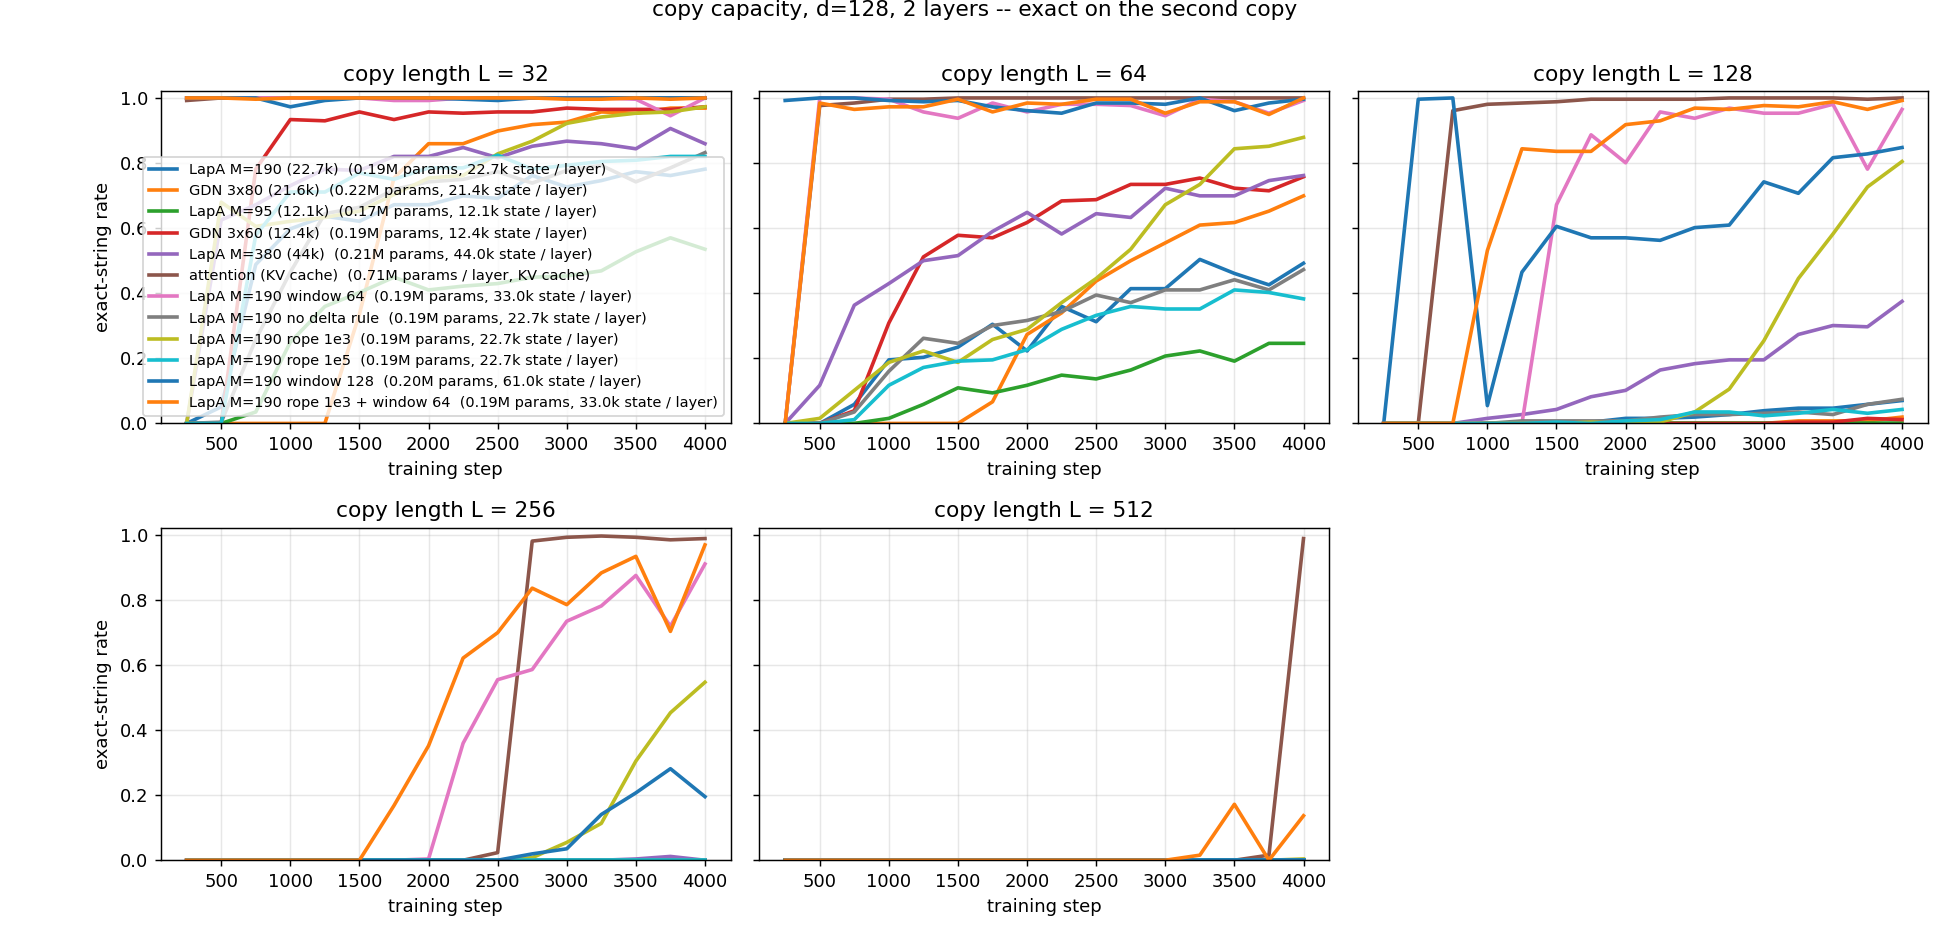
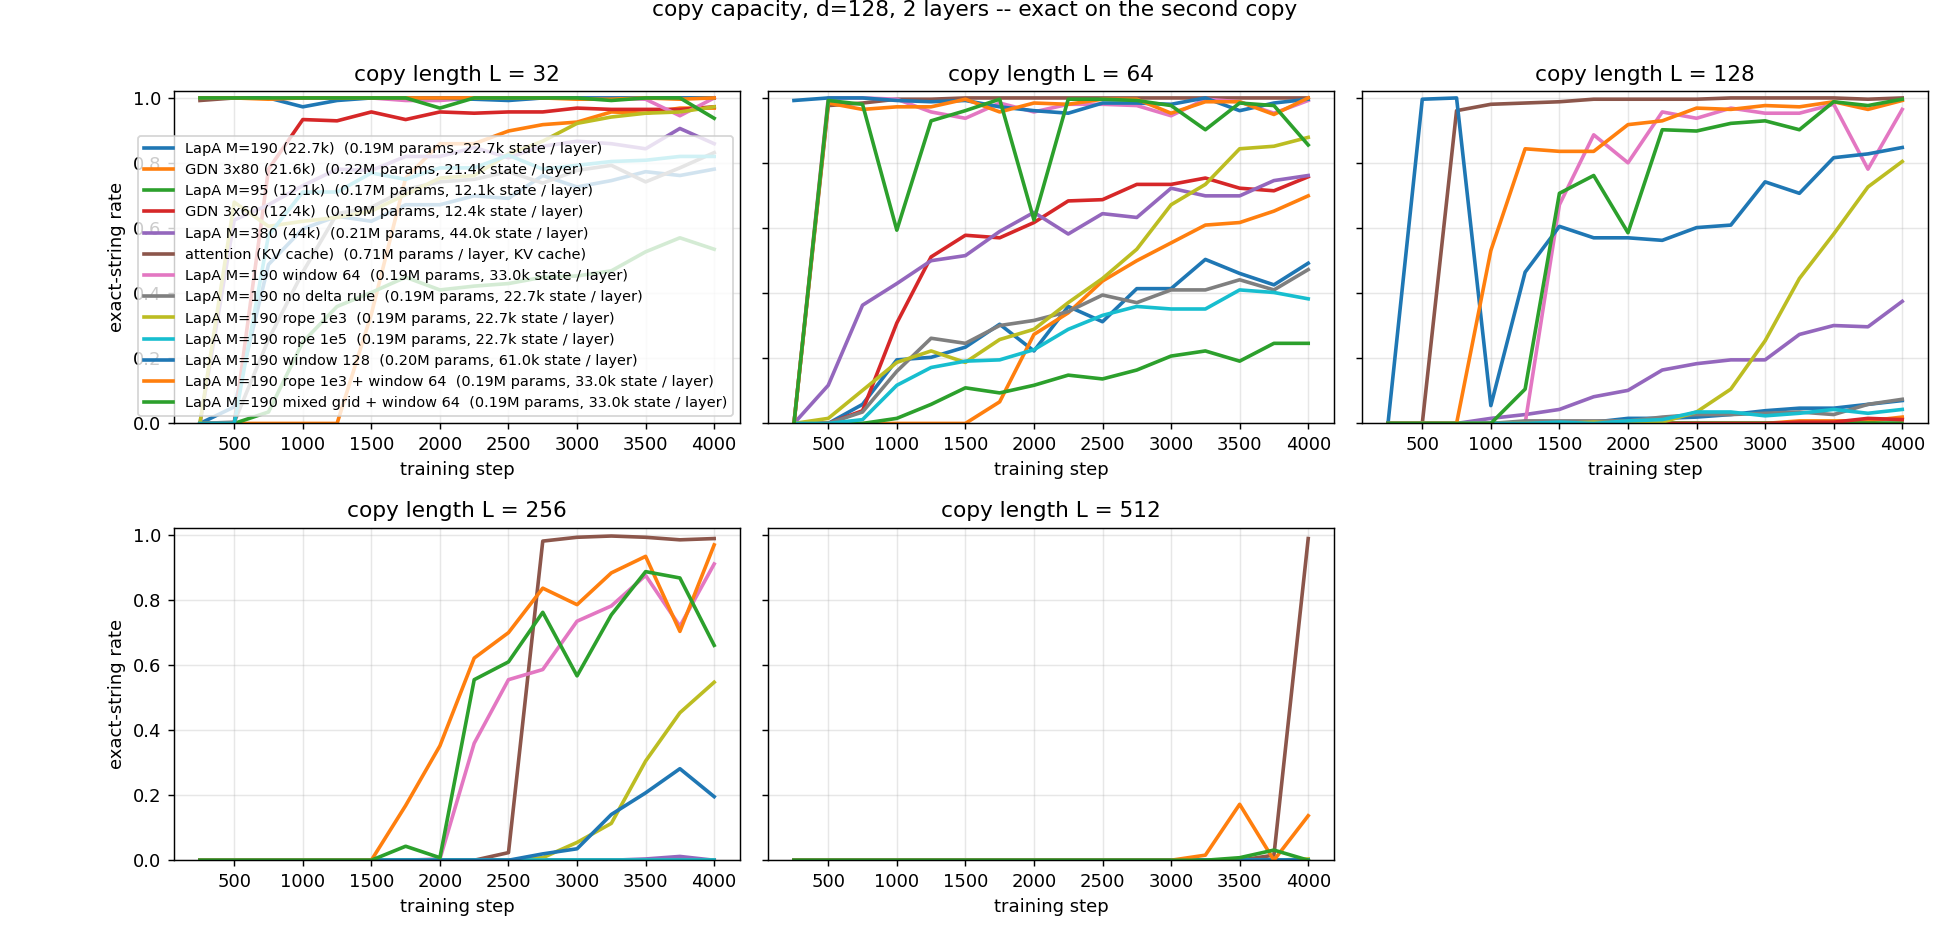
night results: mixed grid recovers A in LM, window 64 neutral; candidate = mixed + w64; day-3 queue

diff --git a/CATCHUP.md b/CATCHUP.md
@@ -524,6 +524,34 @@ rope_base=1e3` keeps the 47 slow modes A used and densifies the other 143 into t
 addressing range. Queued as `l5_Amixed_s0` (window 16, single change vs A) behind
 tonight's rope-only arm (`l5_Arope_s0`), which separates the window-64 effect.
 
+### Night of 2026-09-10 → 11: the mixed grid recovers the LM, window 64 is neutral there
+
+XL, 5 h, seed 0, gaps to `l5_gdn_s0` at matched tokens (medians):
+
+| arm | change vs A | 300–600M | 600–900M | 900–1200M | last 25% |
+|---|---|---|---|---|---|
+| A | — | −0.052 | −0.052 | −0.032 | −0.037 |
+| rope 1e3 | grid | −0.004 | −0.015 | +0.023 | **+0.008** |
+| rope 1e3 + window 64 | grid + window | −0.001 | −0.007 | +0.040 | −0.010 |
+| **mixed grid** (0.25 slow + 1e3) | grid | **−0.037** | **−0.044** | **−0.037** | **−0.036** |
+
+Rope 1e3 alone costs ~0.04 vs A (it removes the 47 slow integrators that carry 55–85%
+of A's state energy); window 64 on top is ±0.015, noise — **neutral in the LM**. The
+mixed grid is A's LM to the third decimal (−0.036 vs −0.037), slightly ahead late
+(−0.015 vs A at 900M+, within noise). Blocked speed: grid changes cost nothing
+(1.00 / 1.02 / 1.04 for A / rope 1e3 / mixed); the cumulative tok/s differences between
+the night's arms (73k–90k) were machine variance.
+
+Copy, mixed grid + window 64 (M=190, 4000 steps): 0.94 / 0.86 / **1.00** / 0.66 / 0.98
+(exact at L32/64/128/256, token acc at 512). At 3500 steps it was 1.00 / 0.98 / 0.99 /
+0.89 / 0.99 — the champion's numbers (rope 1e3 + w64: 1.00 / 1.00 / 0.99 / 0.97 / 1.00) —
+and the 4000 eval dipped; an 8000-step re-run is queued. Silencing the slow modes at
+inference destroys copy at L ≥ 64 (0.28 / 0.03 / ...): in this model they are
+load-bearing for long copy, not noise (layer 0 gives them the largest read weight).
+
+Candidate layer: **mixed grid + window 64**. Queued: copy at 8000 steps, then its 5 h LM
+run (`l5_Amixedw64_s0`, ff 424).
+
 ### Speed pass on Laplace Attention (2026-09-10, in progress)
 
 Profile of A's layer under compile (B=8, T=1024, fwd+bwd): long head 65%, short
